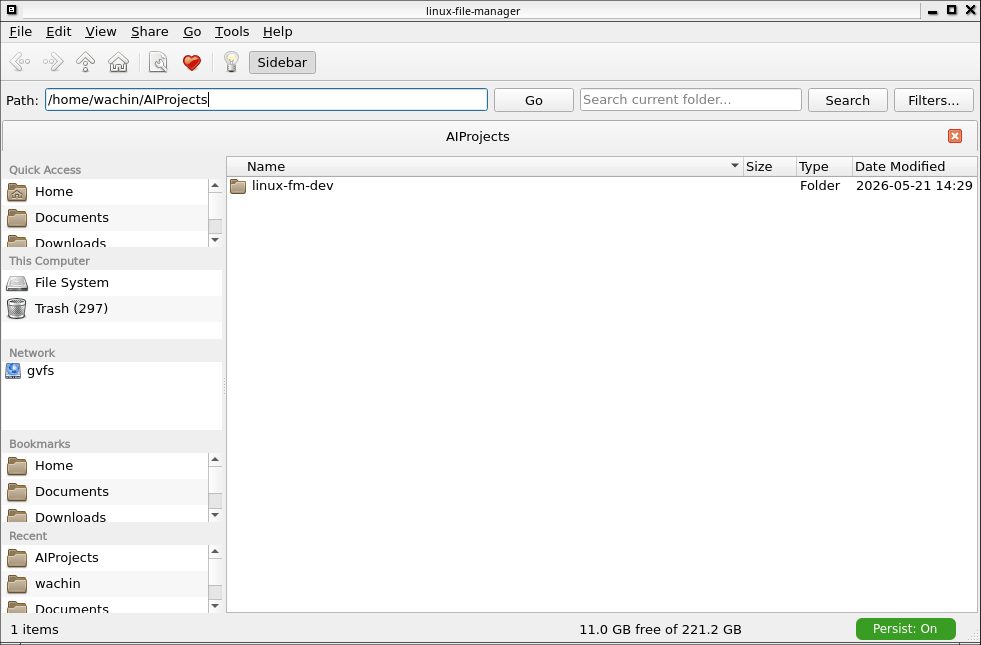
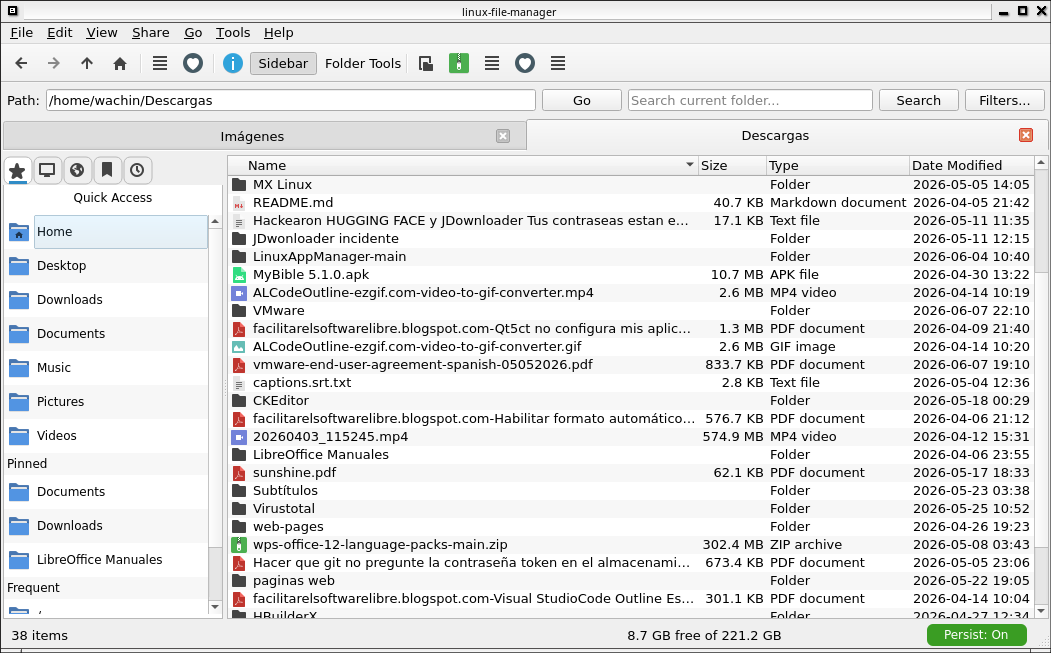
docs(readme): document XDG User Directories integration
- Updated README.md with XDG resolution order and Quick Access details

- Clarified roles for This Computer, Bookmarks, and Recents sections

- Noted support for localized and custom folder names

- Updated ROADMAP.md to reflect completed sidebar navigation compliance

- Documented xdg.py helper for command and config fallback logic

Changed region(s): [[0.0, 0.0, 1.0, 1.0]]

diff --git a/README.md b/README.md
@@ -16,6 +16,7 @@ This project aims to provide a familiar, efficient file management workflow whil
 - Modular PyQt6 application structure
 - Multiple view modes: icons, list, details, compact
 - Quick Access, bookmarks, recent locations, and tabbed navigation
+- XDG User Directories support for localized and user-customized standard folders
 - Core file operations: copy, move, rename, delete, trash, create folder/file
 - Search in the current folder with filters
 - Preview and properties panels
@@ -33,6 +34,8 @@ Already implemented:
 - Main window, sidebar, workspace, preview panel, and status bar
 - File navigation history and multiple tabs
 - Context menus and toolbar actions
+- XDG-compliant Quick Access that resolves Desktop, Downloads, Documents, Music, Pictures, and Videos from the system instead of hardcoded English folder names
+- Bookmarks kept separate from built-in Quick Access places by default
 - Search, bookmarks, trash, properties, and basic archive support
 - Configurable UI preferences such as font and window size
 
@@ -147,6 +150,36 @@ Examples of configurable settings:
 - sidebar and preview visibility
 - hidden files, file extensions, and selection checkboxes
 - preferred terminal for `Open in Terminal`
+
+## XDG User Directories
+
+Linux File Manager now follows the FreeDesktop XDG User Directories specification for standard user folders.
+
+This means `Quick Access` resolves:
+
+- Home
+- Desktop
+- Downloads
+- Documents
+- Music
+- Pictures
+- Videos
+
+from the actual system configuration rather than assuming English folder names like `~/Desktop` or `~/Documents`.
+
+Resolution order:
+
+1. `xdg-user-dir`
+2. `~/.config/user-dirs.dirs`
+
+Only existing directories are shown, duplicate paths are avoided, and user-customized or localized folders such as `~/Escritorio`, `~/Documentos`, or `~/Bureau` are supported automatically.
+
+By design:
+
+- `Quick Access` contains the built-in XDG locations.
+- `Bookmarks` contains only user-created bookmarks.
+- `This Computer` focuses on Home, `/`, drives, removable media, and Trash.
+- `Recents` remains dedicated to recent files and folders.
 
 You can change these settings from:
 

diff --git a/ROADMAP.md b/ROADMAP.md
@@ -48,7 +48,8 @@ The file manager should implement the core capabilities expected from a modern L
 **Navigation Panel (Sidebar)**
 * [x] Quick Access with dynamically pinned items
 * [x] Known folders: Desktop, Documents, Downloads, Pictures, Music, Videos
-* [x] This Computer: local drives
+* [x] XDG User Directories compliance for localized/custom standard folders
+* [x] This Computer: home, root filesystem, local drives, removable media, trash
 * [x] Network locations
 * [x] Recent locations
 * [x] Persistence of pinned items
@@ -253,7 +254,7 @@ linux-file-manager/
 │   ├── ui/
 │   │   ├── __init__.py              [x] Package init
 │   │   ├── main_window.py           [x] Main window with toolbar, menu bar, shortcuts, status bar
-│   │   ├── sidebar.py               [x] Sidebar with Quick Access, This Computer, Bookmarks sections
+│   │   ├── sidebar.py               [x] Sidebar with Quick Access, This Computer, Network, Bookmarks, and Recent sections
 │   │   ├── workspace.py             [x] QTreeView file listing with multi-selection
 │   │   ├── preview_panel.py         [x] Right-side preview (text, images, metadata)
 │   │   ├── property_dialog.py       [x] File/folder properties dialog
@@ -266,7 +267,8 @@ linux-file-manager/
 │   │   ├── trash_service.py         [x] FreeDesktop trash spec: send, restore, empty, list, count
 │   │   ├── search_service.py        [x] Background search thread (current folder, recursive)
 │   │   ├── extractor_service.py     [x] Archive extraction: ZIP, TAR, RAR, 7Z, DEB + ExtractThread
-│   │   ├── bookmark_service.py      [x] Persistent bookmarks with JSON, XDG defaults
+│   │   ├── bookmark_service.py      [x] Persistent user-created bookmarks with JSON storage
+│   │   ├── xdg.py                   [x] XDG User Directories resolution helper (command + config fallback)
 │   │   ├── tag_service.py           [x] SQLite-based file tagging: add, remove, search by tags
 │   │   ├── operation_history.py     [x] Undo/redo stack for reversible and grouped operations
 │   │   ├── operation_queue.py       [x] Background queue for file operation workers